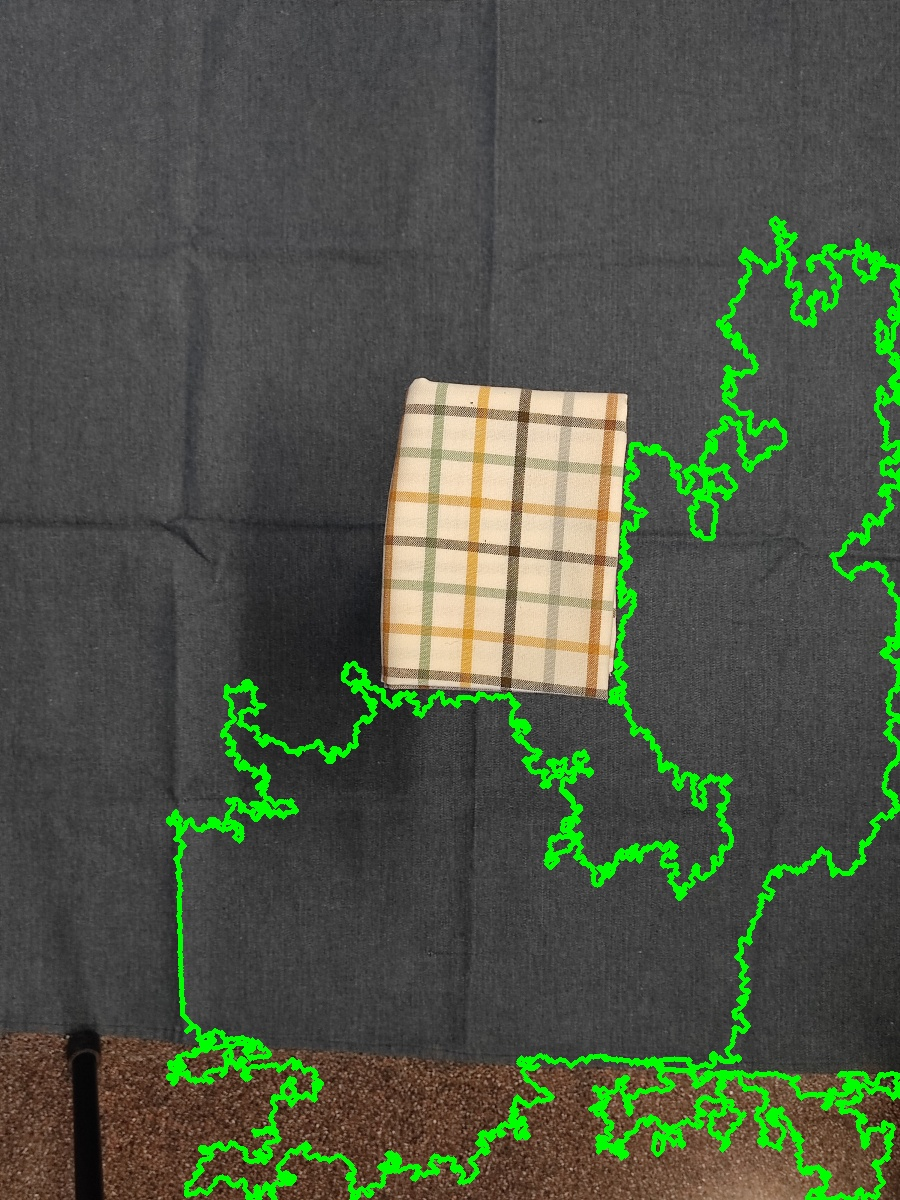
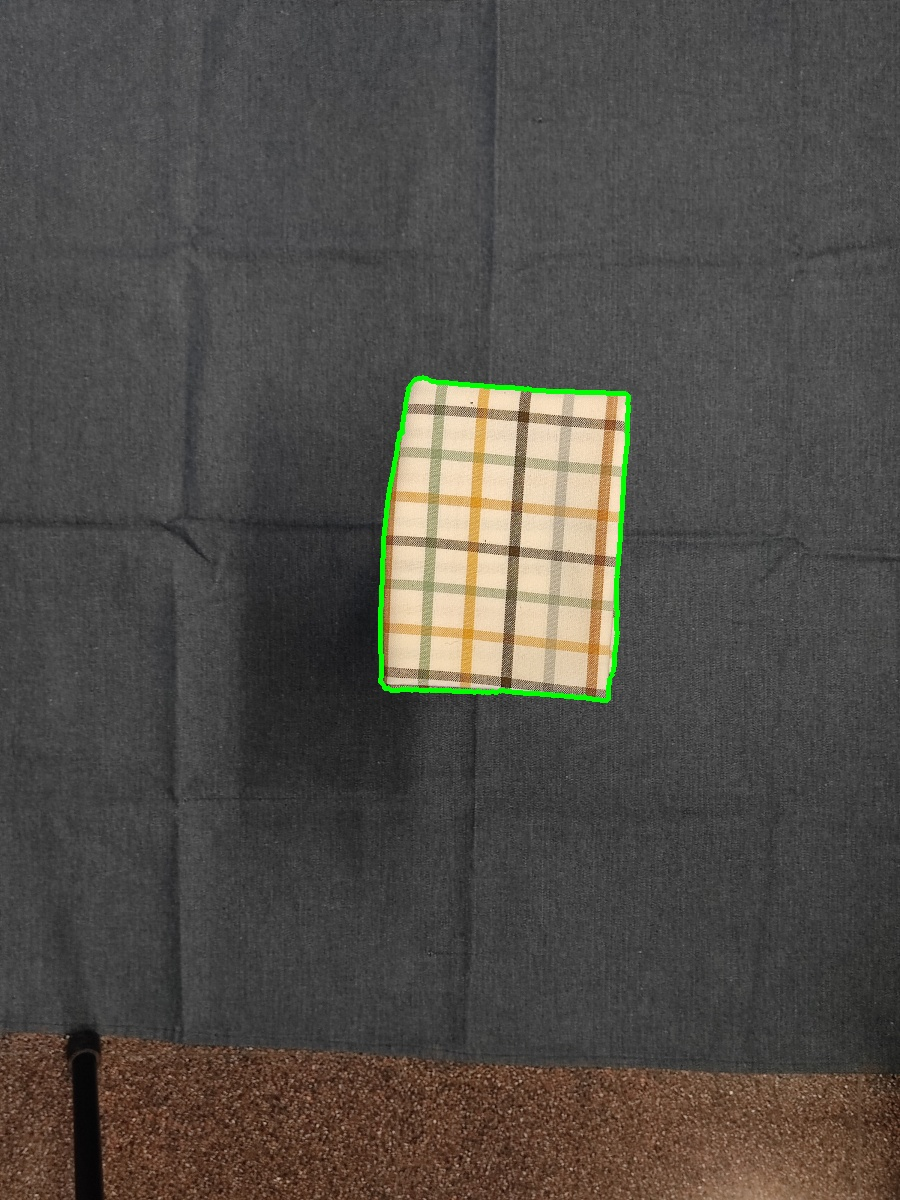
Final corrected measures of drape ratio for the garments with different folds.
trackbars.py:
- Created code to adjust canny thresholds with slides to obtain good segmentation and area.

stiffness.py:
- Saved data in a CSV file including data used to measure drape (cltoh real sizes, canny thresholds, plate diameter, px to cm ratio) -> stiffness_data.csv
- Used new canny thresholds to emasure area (e.g. check_6layers_10_res.jpg)

To Do:
- Incorporate trackbars.py (and px_to_cm.py) into stiffness.py

Changed region(s): [[0.1867, 0.185, 1.0, 1.0], [0.84, 0.4933, 1.0, 0.7708]]

diff --git a/trackbars.py b/trackbars.py
@@ -1,0 +1,159 @@
+# Source: https://stackoverflow.com/questions/10948589/choosing-the-correct-upper-and-lower-hsv-boundaries-for-color-detection-withcv
+import cv2
+import numpy as np
+
+def nothing(x):
+    pass
+
+# Variables
+show_imgs=True
+HSV_segm = False
+canny_segm = True
+
+# Load image
+resize_percentage=0.3
+img = cv2.imread('./dif_folds_stiffness/check_flat_27.jpg')
+image = cv2.resize(img, (int(img.shape[1]*resize_percentage),int(img.shape[0]*resize_percentage)), interpolation = cv2.INTER_AREA) 
+image2 = image
+
+#### Slides for HSV segmentation ####
+# Create a window
+cv2.namedWindow('image')
+
+# Create trackbars for color change
+# Hue is from 0-179 for Opencv
+cv2.createTrackbar('HMin', 'image', 0, 179, nothing)
+cv2.createTrackbar('SMin', 'image', 0, 255, nothing)
+cv2.createTrackbar('VMin', 'image', 0, 255, nothing)
+cv2.createTrackbar('HMax', 'image', 0, 179, nothing)
+cv2.createTrackbar('SMax', 'image', 0, 255, nothing)
+cv2.createTrackbar('VMax', 'image', 0, 255, nothing)
+
+# Set default value for Max HSV trackbars
+cv2.setTrackbarPos('HMax', 'image', 179)
+cv2.setTrackbarPos('SMax', 'image', 255)
+cv2.setTrackbarPos('VMax', 'image', 255)
+
+# Initialize HSV min/max values
+hMin = sMin = vMin = hMax = sMax = vMax = 0
+phMin = psMin = pvMin = phMax = psMax = pvMax = 0
+
+#### Slides for Canny segmentation ####
+# Create a window
+cv2.namedWindow('Canny')
+
+# Create trackbars for color change
+# Hue is from 0-179 for Opencv
+cv2.createTrackbar('t_lower', 'Canny', 0, 179, nothing)
+cv2.createTrackbar('t_upper', 'Canny', 0, 255, nothing)
+cv2.createTrackbar('A', 'Canny', 0, 50000, nothing)
+cv2.createTrackbar('B', 'Canny', 0, 1000, nothing)
+cv2.createTrackbar('i', 'Canny', 0, 150, nothing)
+cv2.createTrackbar('get_contour', 'Canny', 0,1, nothing)
+
+# Set default value for Max HSV trackbars
+cv2.setTrackbarPos('t_lower', 'Canny', 50)
+cv2.setTrackbarPos('t_upper', 'Canny', 150)
+cv2.setTrackbarPos('A', 'Canny', 5000)
+cv2.setTrackbarPos('B', 'Canny', 150)
+cv2.setTrackbarPos('i', 'Canny', 0)
+cv2.setTrackbarPos('get_contour', 'Canny', 0)
+
+pt_low = pt_up = 0
+
+first_run = True
+
+
+def HSV_segmentation(hMin, sMin, vMin, hMax, sMax, vMax):
+    # Set minimum and maximum HSV values to display
+    lower = np.array([hMin, sMin, vMin])
+    upper = np.array([hMax, sMax, vMax])
+
+    # Convert to HSV format and color threshold
+    hsv = cv2.cvtColor(image, cv2.COLOR_BGR2HSV)
+    mask = cv2.inRange(hsv, lower, upper)
+    result = cv2.bitwise_and(image, image, mask=mask)
+
+    return result
+
+def canny_segmentation(input_img, t_low, t_up, A, B):
+
+    ## convert the image to grayscale format
+    # img_gray = cv2.cvtColor(img, cv2.COLOR_BGR2GRAY)
+
+    # Setting parameter values
+    t_lower = t_low  # Lower Threshold
+    t_upper = t_up  # Upper threshold
+      
+    ## Applying the Canny Edge filter
+    edge = cv2.Canny(input_img, A, B, apertureSize=5)
+    
+    #Dilate canny edges to join and close contours
+    kernel = cv2.getStructuringElement(cv2.MORPH_ELLIPSE,(2,2))
+    dilated = cv2.dilate(edge, kernel)
+    
+
+    return dilated
+
+while(1):
+
+    if(HSV_segm):
+        # Get current positions of all trackbars
+        hMin = cv2.getTrackbarPos('HMin', 'image')
+        sMin = cv2.getTrackbarPos('SMin', 'image')
+        vMin = cv2.getTrackbarPos('VMin', 'image')
+        hMax = cv2.getTrackbarPos('HMax', 'image')
+        sMax = cv2.getTrackbarPos('SMax', 'image')
+        vMax = cv2.getTrackbarPos('VMax', 'image')
+    
+        result = HSV_segmentation(hMin, sMin, vMin, hMax, sMax, vMax)
+    
+        # Print if there is a change in HSV value
+        if((phMin != hMin) | (psMin != sMin) | (pvMin != vMin) | (phMax != hMax) | (psMax != sMax) | (pvMax != vMax) ):
+            print("(hMin = %d , sMin = %d, vMin = %d), (hMax = %d , sMax = %d, vMax = %d)" % (hMin , sMin , vMin, hMax, sMax , vMax))
+            phMin = hMin
+            psMin = sMin
+            pvMin = vMin
+            phMax = hMax
+            psMax = sMax
+            pvMax = vMax
+    
+        # Display result image
+        cv2.imshow('image', result)
+        if cv2.waitKey(10) & 0xFF == ord('q'):
+            break
+
+    if(canny_segm):
+        t_low = cv2.getTrackbarPos('t_lower', 'Canny')
+        t_up = cv2.getTrackbarPos('t_upper', 'Canny')
+        A = cv2.getTrackbarPos('A', 'Canny')
+        B = cv2.getTrackbarPos('B', 'Canny')
+        i = cv2.getTrackbarPos('i', 'Canny')
+        get_contour = cv2.getTrackbarPos('get_contour', 'Canny')
+        
+        img33 = cv2.imread('./dif_folds_stiffness/check_flat_27.jpg')
+        image33 = cv2.resize(img33, (int(img33.shape[1]*resize_percentage),int(img33.shape[0]*resize_percentage)), interpolation = cv2.INTER_AREA) 
+        result = canny_segmentation(image33, t_low, t_up, A, B)
+    
+        if((pt_low != t_low) | (pt_up != t_up) | (pvMin != vMin) | (phMax != hMax) | (psMax != sMax) | (pvMax != vMax) ):
+            #first_run = True
+            pt_low = t_low
+            pt_up = t_up
+
+        # Find largest contour to filter noise
+        if(get_contour):
+            contours, hierarchy = cv2.findContours(result, cv2.RETR_TREE,cv2.CHAIN_APPROX_NONE)
+            contour = max(contours, key = cv2.contourArea) #key=len
+            cont_img = cv2.drawContours(image2, contour, -1, (0,255,0), 3)
+            cv2.imshow('Contour', image2)
+            result = cont_img
+        else:
+            image2 = image33
+
+        # Display result image
+        cv2.imshow('edge', result)
+        cv2.imshow('original', image)
+        if cv2.waitKey(10) & 0xFF == ord('q'):
+            break
+
+cv2.destroyAllWindows()

diff --git a/stiffness.py b/stiffness.py
@@ -1,7 +1,10 @@
 import cv2
+import csv
 import os
+import io
 import math
 import argparse
+import numpy as np
 
 data_dir = "./dif_folds_stiffness/"
 write_dir = "./dif_folds_stiffness_res/"
@@ -19,10 +22,15 @@ resize_percentage = 0.3
 
 write_image = write_dir + cloth + "_res.jpg" #
 cloth_image = data_dir + cloth + ".jpg" #
+csv_file = "./stiffness_data.csv"
+#my_file = open(csv_file, "w")
+#wr = csv.writer(my_file, delimiter=",", quoting=csv.QUOTE_NONNUMERIC)
 
 activate_print = False #
-save_img = True #
-show_imgs = False
+save_img = True #Save images with contour and CSV data
+show_imgs = True
+
+dilate = True
 
 #########################################################
 
@@ -39,11 +47,12 @@ args = vars(ap.parse_args())
 
 cloth_image = data_dir + args["input"] + ".jpg" 
 write_image = write_dir + args["input"] + "_res.jpg"
+cloth = args["input"]
 cloth_dims = args["size"]
 plate_diam = args["plate"]
-print(cloth_dims)
-print(cloth_dims[0])
 
+t_lower = 8900 #Lower Canny threshold
+t_upper = 560  #Upper Canny threshold
 
 #########################################################
 
@@ -53,13 +62,9 @@ def do_things(img):
 
     # convert the image to grayscale format
 #    img_gray = cv2.cvtColor(img, cv2.COLOR_BGR2GRAY)
-
-    # Setting parameter values
-    t_lower = 50  # Lower Threshold
-    t_upper = 150  # Upper threshold
       
     ## Applying the Canny Edge filter
-    edge = cv2.Canny(img, 5000, 150, apertureSize=5)
+    edge = cv2.Canny(img, t_lower, t_upper, apertureSize=5)
     if(show_imgs):
         cv2.imshow('original', img)
         cv2.imshow('edge', edge)
@@ -76,13 +81,15 @@ def do_things(img):
     #cv2.destroyAllWindows()
     
     #Dilate canny edges to join and close contours
-    kernel = cv2.getStructuringElement(cv2.MORPH_ELLIPSE,(2,2))
-    dilated = cv2.dilate(edge, kernel)
-    if(show_imgs):
-        cv2.imshow('dilated', dilated)
+    if(dilate):
+        kernel = cv2.getStructuringElement(cv2.MORPH_ELLIPSE,(2,2))
+        dilated = cv2.dilate(edge, kernel)
+        edge = dilated
+        if(show_imgs):
+            cv2.imshow('dilated', edge)
 
     # Find largest contour to filter noise
-    contours, hierarchy = cv2.findContours(dilated,cv2.RETR_TREE,cv2.CHAIN_APPROX_NONE)
+    contours, hierarchy = cv2.findContours(edge, cv2.RETR_TREE,cv2.CHAIN_APPROX_NONE)
     contour = max(contours, key = cv2.contourArea) #key=len
     
     contour_img = cv2.drawContours(img, contour, -1, (0,255,0), 3)
@@ -162,6 +169,46 @@ def compute_drape_ratio(plate_area, cloth_total_area, cloth_measured_area):
 
     return drape
 
+def save_data_csv(drape, measured_area):
+    # Read CSV files with groundtruth and results
+    #db = csv.reader(open(csv_file))
+    #data = []
+    #for rows in db:
+    #    data.append(rows)
+    #my_data = np.genfromtxt(csv_file, delimiter=',')
+    #print(my_data)
+    #my_data = np.append([my_data], [[3,2,1]])
+    #print(my_data)
+    #my_data=[1 2 3]
+    #np.savetxt("foo.csv", my_data, delimiter=",")
+
+    #headers = ["File", "short_size", "long_size", "drape", "measured_area_cm","plate_diam", "px_cm", "t_lower", "t_upper"]
+    #wr.writerow(headers)
+    db = csv.reader(open(csv_file))
+    database = np.empty([0,9])
+    #print(database)
+    n=0
+    #database = [1,1,1,1,1,1,1,1,1]
+    for row in db:
+        #print("row", row)
+        #wr.writerow(row)
+        #database[n] = row
+        #print(database)
+        database = np.vstack([database, row])
+        #print("dat", database)
+        #n+=1
+
+    data = [cloth, cloth_dims[0], cloth_dims[1], drape, measured_area, plate_diam, px_cm_ratio, t_lower, t_upper]
+    #wr.writerow(data)
+    database = np.vstack([database, data])
+    #database = np.append(database, [data])
+    #database[n]=data
+
+    #print("db", database)
+    #my_file2 = open("./hola.csv", "w")
+    #wr = csv.writer(my_file2, delimiter=",", quoting=csv.QUOTE_NONNUMERIC)
+    np.savetxt(csv_file, database, delimiter=",", fmt='%s')
+    
 
 def print_info(activate, arg1, arg2=""):
     if(activate):
@@ -221,14 +268,15 @@ else:
     cloth_total_area_cm = cloth_dims[0]*cloth_dims[1]
     print("Plate real area (cm2): ", plate_area_cm)
     print("Cloth real area (cm2): ", cloth_total_area_cm)
-    plate_area_cm, cloth_total_area_cm, cloth_measured_area_cm = check_measurements_coherence(plate_area_cm, cloth_total_area_cm, cloth_measured_area_cm)
+    plate_area_cm, cloth_total_area_cm, cloth_measured_area_cm_corr = check_measurements_coherence(plate_area_cm, cloth_total_area_cm, cloth_measured_area_cm)
     
     ## Compute drape
-    drape_ratio = compute_drape_ratio(plate_area_cm, cloth_total_area_cm, cloth_measured_area_cm)
+    drape_ratio = compute_drape_ratio(plate_area_cm, cloth_total_area_cm, cloth_measured_area_cm_corr)
     print("\033[92m DRAPE RATIO (%): ", round(drape_ratio*100, 1), " % \033[0m")
     ## Save image
     if(save_img):
         cv2.imwrite(write_image, contour_img)
+        save_data_csv(round(drape_ratio*100,1), round(cloth_measured_area_cm))
 
 
 

diff --git a/README.md b/README.md
@@ -25,16 +25,17 @@ Repository used in the article of the same title submitted to ICRA 2024. This re
 
 Example for measuring the stiffness of the flat towel with dimensions 50x90cm, using a plate of 27cm diameter:
 
-``python stiffness.py -i towel_flat_27 -p 27 -s 50 90``
+``python stiffness.py -i towel_flat_27 -p 27 -s 51 91``
 
 ## Terminal output
 
-Executing this command will provide the drape ratio percentage through terminal in green, as well as some useful information.
+The previous command will provide the drape ratio percentage (rigidity) through terminal in green, as well as some useful information.
 
 ## Dependencies
 
 - Python
 - OpenCV
+- CSV
 
 ## References
 
